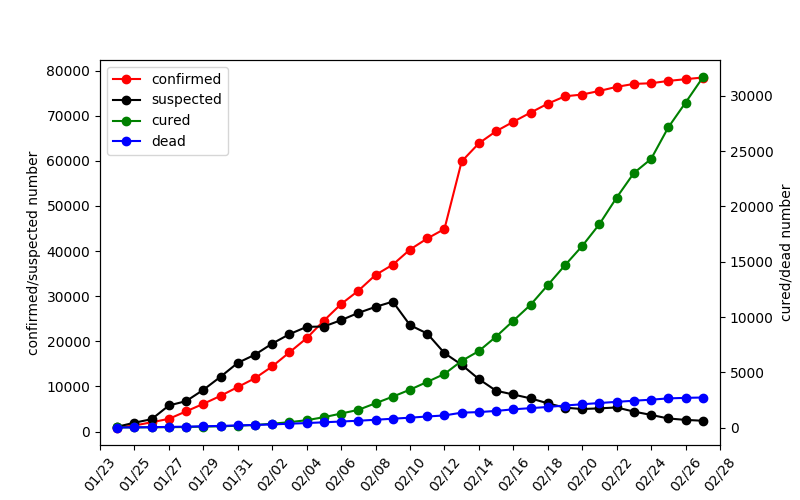
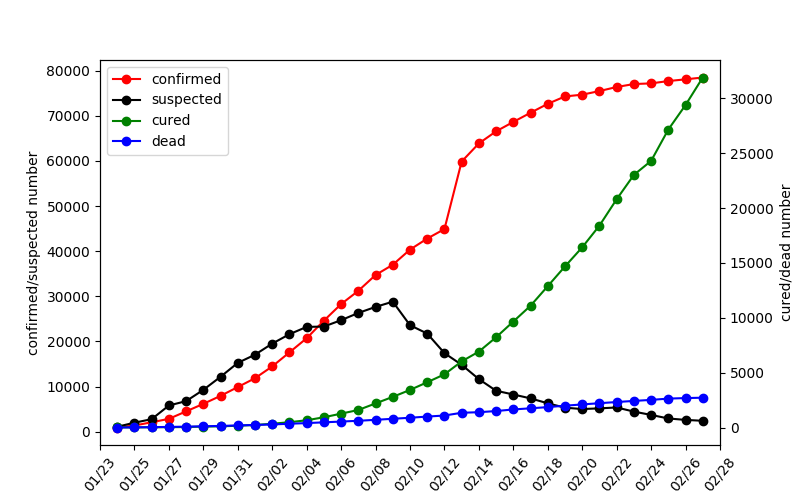
Update figures by GitHub Actions

diff --git a/img/hubei_distribution.html b/img/hubei_distribution.html
@@ -8,11 +8,11 @@
 
 </head>
 <body>
-    <div id="cb8f44b43633491294ffbe0c4d5925dc" class="chart-container" style="width:900px; height:500px;"></div>
+    <div id="00f96815fd8343b6ae331f365d8cff34" class="chart-container" style="width:900px; height:500px;"></div>
     <script>
-        var chart_cb8f44b43633491294ffbe0c4d5925dc = echarts.init(
-            document.getElementById('cb8f44b43633491294ffbe0c4d5925dc'), 'white', {renderer: 'canvas'});
-        var option_cb8f44b43633491294ffbe0c4d5925dc = {
+        var chart_00f96815fd8343b6ae331f365d8cff34 = echarts.init(
+            document.getElementById('00f96815fd8343b6ae331f365d8cff34'), 'white', {renderer: 'canvas'});
+        var option_00f96815fd8343b6ae331f365d8cff34 = {
     "animation": true,
     "animationThreshold": 2000,
     "animationDuration": 1000,
@@ -189,7 +189,7 @@
         "borderWidth": 0
     }
 };
-        chart_cb8f44b43633491294ffbe0c4d5925dc.setOption(option_cb8f44b43633491294ffbe0c4d5925dc);
+        chart_00f96815fd8343b6ae331f365d8cff34.setOption(option_00f96815fd8343b6ae331f365d8cff34);
     </script>
 </body>
 </html>

diff --git a/img/overall_distribution.html b/img/overall_distribution.html
@@ -8,11 +8,11 @@
 
 </head>
 <body>
-    <div id="db95c26b980c4a298d72bc57a0569f70" class="chart-container" style="width:900px; height:500px;"></div>
+    <div id="9467eb5ceeee4891a180b94803242221" class="chart-container" style="width:900px; height:500px;"></div>
     <script>
-        var chart_db95c26b980c4a298d72bc57a0569f70 = echarts.init(
-            document.getElementById('db95c26b980c4a298d72bc57a0569f70'), 'white', {renderer: 'canvas'});
-        var option_db95c26b980c4a298d72bc57a0569f70 = {
+        var chart_9467eb5ceeee4891a180b94803242221 = echarts.init(
+            document.getElementById('9467eb5ceeee4891a180b94803242221'), 'white', {renderer: 'canvas'});
+        var option_9467eb5ceeee4891a180b94803242221 = {
     "animation": true,
     "animationThreshold": 2000,
     "animationDuration": 1000,
@@ -261,7 +261,7 @@
         "borderWidth": 0
     }
 };
-        chart_db95c26b980c4a298d72bc57a0569f70.setOption(option_db95c26b980c4a298d72bc57a0569f70);
+        chart_9467eb5ceeee4891a180b94803242221.setOption(option_9467eb5ceeee4891a180b94803242221);
     </script>
 </body>
 </html>
